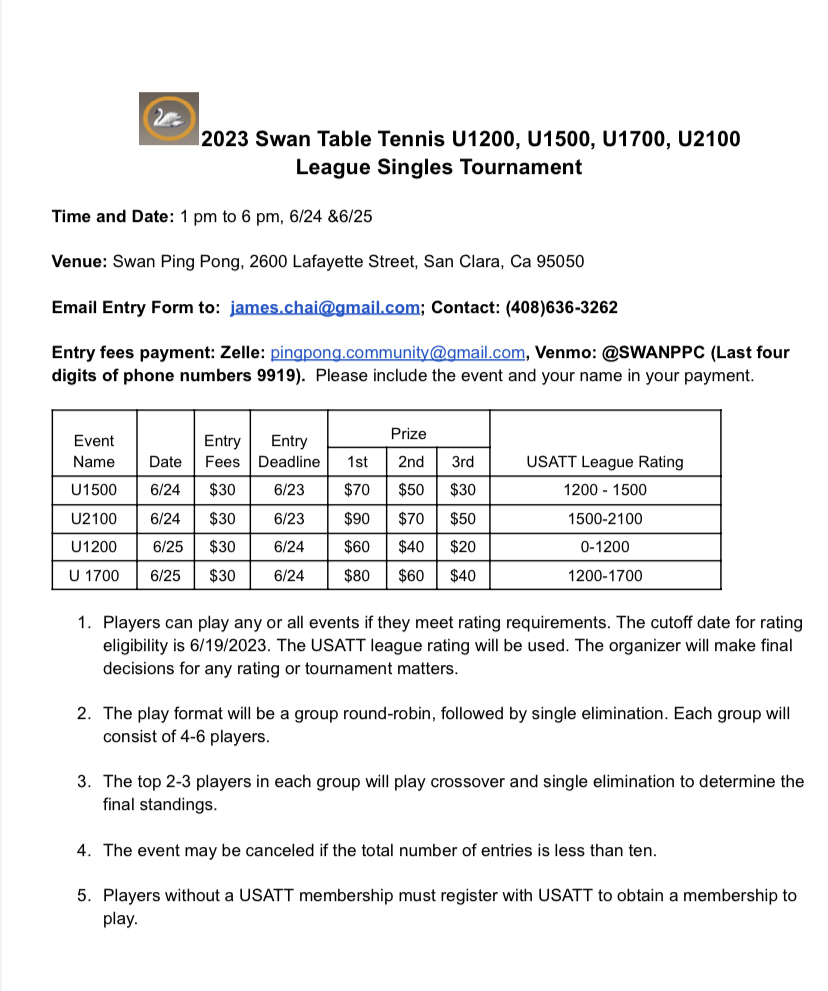
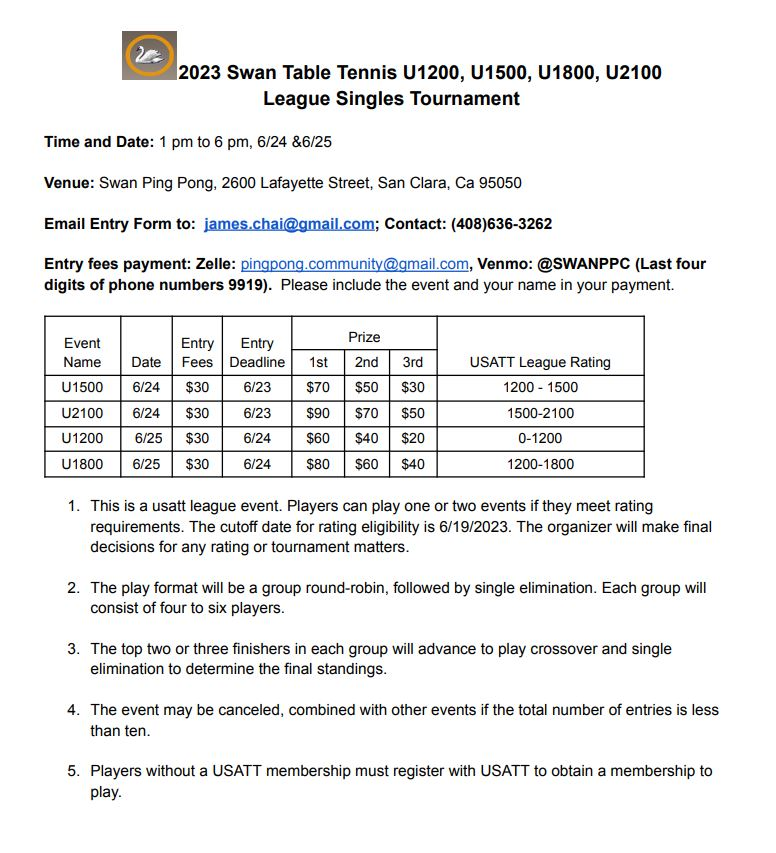
update to U1800

Changed region(s): [[0.0619, 0.3048, 0.9897, 0.9449], [0.0619, 0.0305, 0.8969, 0.2743]]

diff --git a/web/swan/2023_Singles_League/index.html b/web/swan/2023_Singles_League/index.html
@@ -406,7 +406,7 @@
     updateDoc('https://docs.google.com/spreadsheets/d/13-QMx8R8IA82lo6YDGaAuDI7_hX-L7-PVM0e55DPHhQ/edit#gid=523620735')
 
 	updateGroupsDate('6/24','0624', '6/24','0624', '6/25', '0625', '6/25', '0625');
-	updateGroups('U1500', 'U2100', 'U1200', 'U1700');
+	updateGroups('U1500', 'U2100', 'U1200', 'U1800');
 	<!-- updateGroupWinners(1, 1, 'TBD', 'TBD?');	 -->
 </script>			
 			
